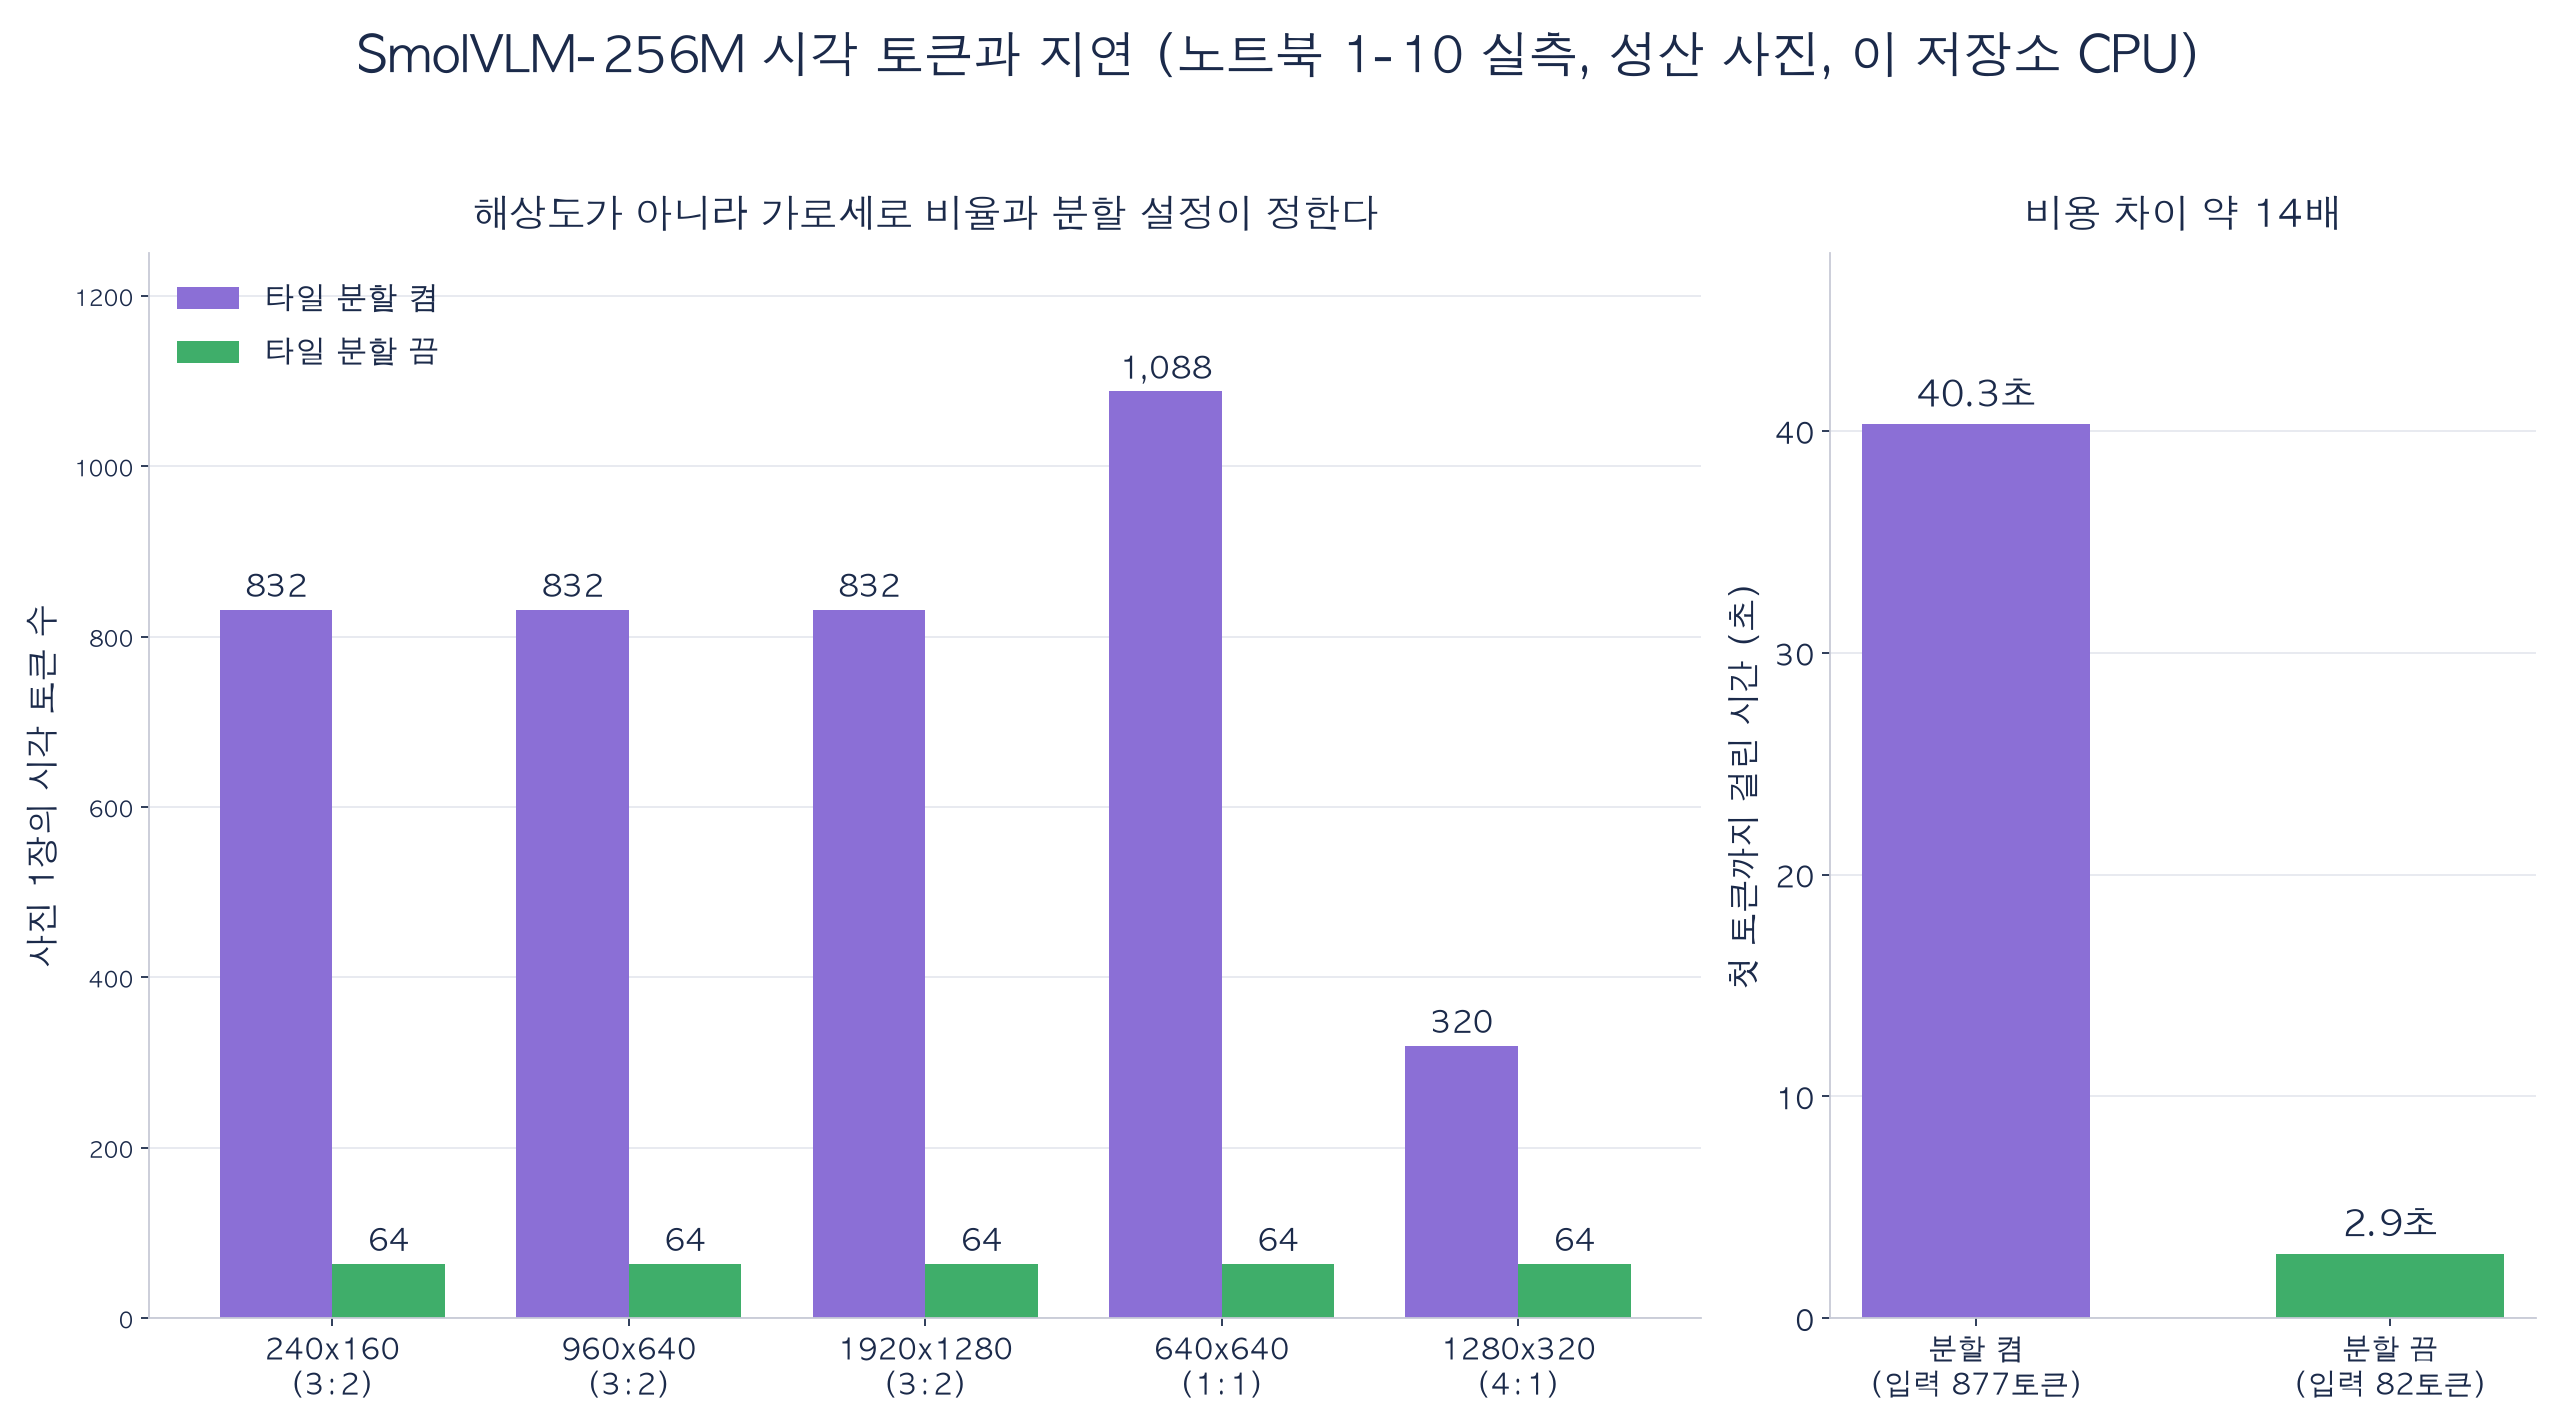
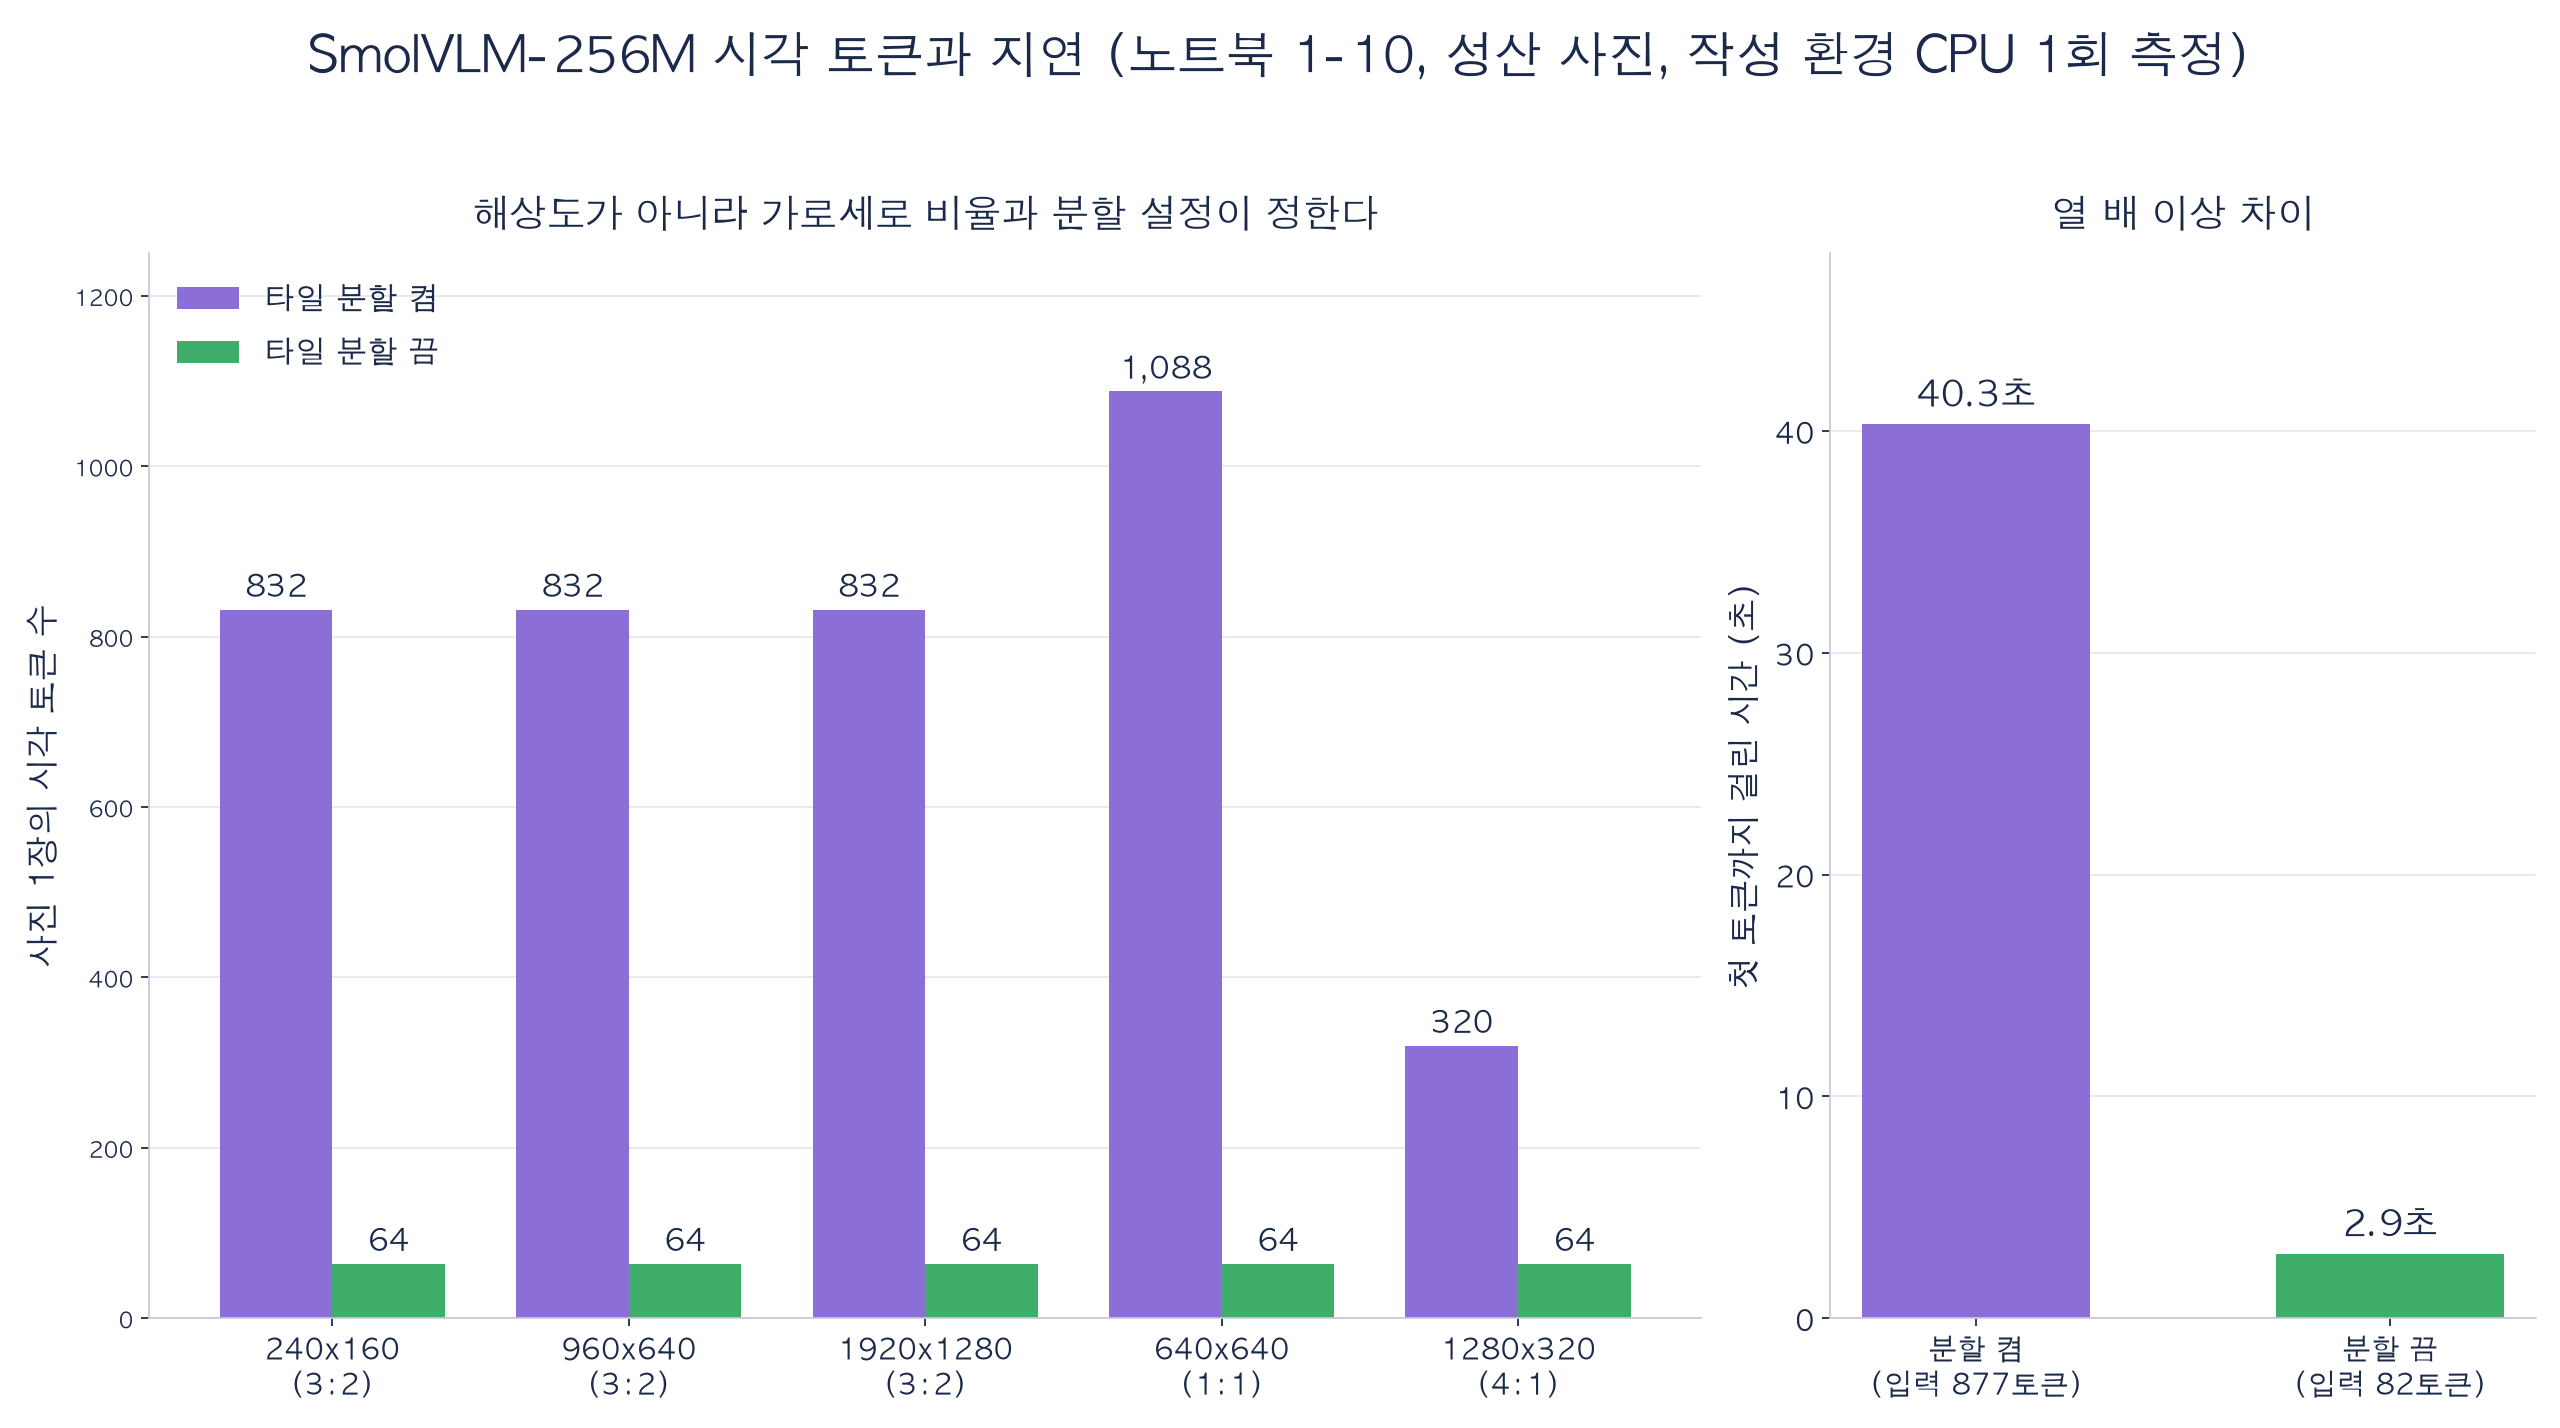
docs(week-06): label single-run timings and token-count basis
OCR delegation review nits on PR #26:
- time to first token is one measurement on the authoring CPU (a re-run
  gave 38.2 s); state that and use "about 40 s vs about 3 s"
- 877 input tokens is the 1-10 prompt; 1-6 prints 874
- ClipHeatmap: note the omitted "a photo of a " prefix on scene labels,
  drop the unused ch-diag class

Claude-Session: https://claude.ai/code/session_01VWvoHA5EVxyGa7Yehh7825

Changed region(s): [[0.125, 0.0, 0.875, 0.0616], [0.7812, 0.1232, 0.9062, 0.1541]]

diff --git a/src/assets/weeks/week-06/prompts.md b/src/assets/weeks/week-06/prompts.md
@@ -39,7 +39,7 @@ CLI 결과의 `_min.webp`는 미리보기본이므로 쓰지 않고 원본 `.png
 | 파일 | 용도 | 값 |
 |---|---|---|
 | cosine-basics.png | 2차원 벡터로 본 코사인 유사도 | a(0.6, 0.8), b(0.8, 0.6), c(-0.8, 0.6). cos(a, b) = 0.96, cos(a, c) = 0 |
-| visual-token-budget.png | SmolVLM 시각 토큰 수와 첫 토큰까지 시간 | 노트북 1-10 실측. 3:2는 크기와 상관없이 832, 1:1은 1,088, 4:1은 320, 분할 끔 64. 첫 토큰까지 40.3초 대 2.9초 |
+| visual-token-budget.png | SmolVLM 시각 토큰 수와 첫 토큰까지 시간 | 노트북 1-10 실측. 3:2는 크기와 상관없이 832, 1:1은 1,088, 4:1은 320, 분할 끔 64. 첫 토큰까지 40.3초 대 2.9초(작성 환경 CPU 1회 측정, 재측정 시 분할 켬 38.2초) |
 
 ## 인터랙티브 컴포넌트
 
